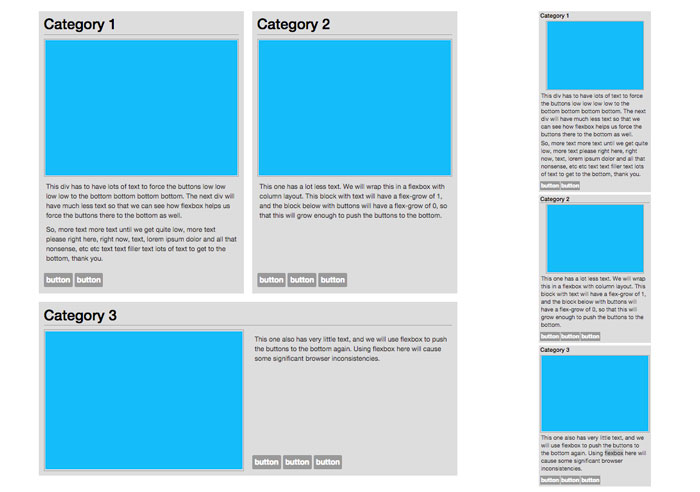
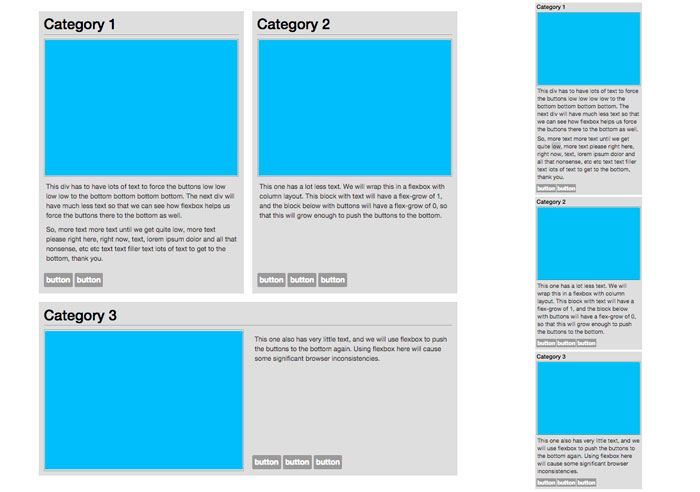
finished post about cross browser inconsistencies flex box

diff --git a/assets/css/flexbox-cross-browser-insonsistencies.css b/assets/css/flexbox-cross-browser-insonsistencies.css
@@ -16,6 +16,7 @@ div.job-wide-all { display: -webkit-flex; display: -ms-flexbox; display: flex; -
 div.job-wide-all>div { -webkit-flex: 0 1 49%; -ms-flex: 0 1 49%; flex: 0 1 49%; }
 div.job-content-buttons { display: -webkit-flex; display: -ms-flexbox; display: flex; -webkit-flex-direction: column; -ms-flex-direction: column; flex-direction: column; }
 div.jobs h2 {margin-top:0; color:black;}
+div.jobs img {width:100%;}
 
 @media only screen and (max-width:770px) {
 	div.jobs { width: 100%; min-width: 100% }

diff --git a/_posts/2014-12-06-flexbox-cross-browser-inconsistencies.md b/_posts/2014-12-06-flexbox-cross-browser-inconsistencies.md
@@ -73,3 +73,17 @@ Now for the screenshots of how different browsers handle this:
 Chrome does just what I would have expected. Now, I developed this solution on Chrome so there's maybe a bit of a bias there -- of course Chrome does what I expect, because in a way Chrome defines my expectations. 
 
 However, I think the differences that other browsers have (which you'll see in just a bit) can be argued to be mistakes; behaviours which you wouldn't expect given the css.
+
+####Firefox on PC:
+![what it looks like on firefox on pc]({{ site.url }}/assets/images/firefoxpcflex.jpg)
+
+The first thing to notice is the margin-bottom of 2% on the upper 2 categories is ignored. If I change it to a pixel value, it works.
+
+The second thing to notice is the huge problems with the Category3 Display. It displays correctly in the mobile view (the only problem there is, again, the ignoring of the bottom margins), but in desktop view the image takes up too much space. I have the div that contains the image set to `flex: 0 1 49%` which means it should not grow from 49% of the width, but it's clearly taking up way more than 49% of the width. It's taking up what I can only assume to be the full width of the image.
+
+####Internet Explorer on PC:
+![what it looks like on internet explorer on pc]({{ site.url }}/assets/images/IEscreenshotflexbox.jpg)
+
+This displays just fine in Desktop view, but looks really really wonky on Category 3 in mobile view. When I change the container div on Category 3 to `flex-direction:column`, the text starts overlapping the image for some strange reason.
+
+I figured out some fixes for the Firefox issues (not the IE one), but I'm not going to post them here because that's not the point of this post. The fixes are workarounds for the annoying problem that shouldn't exist: inconsistent handling of css between browsers. I'm a bit spoilt in that regard: I started getting interested in web design just at the tail end of when people were still regularly designing for compatibility with IE 6. That wasn't a part of my life for very long, *and I don't want it to be a part of my life again*.
